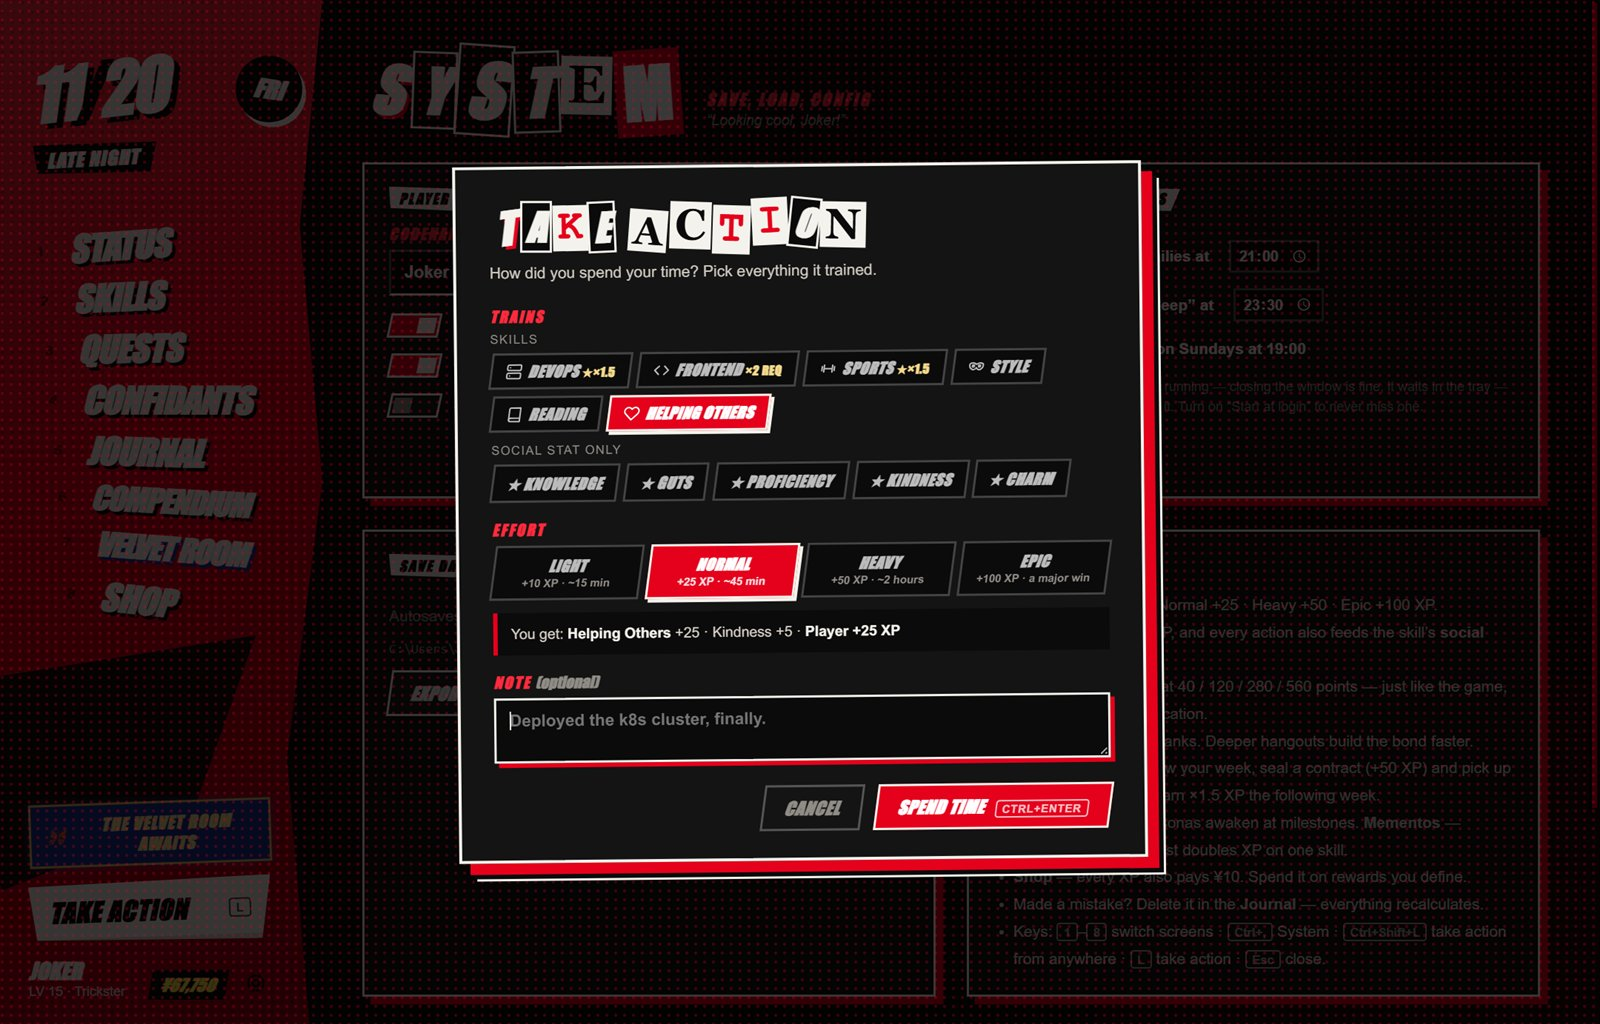
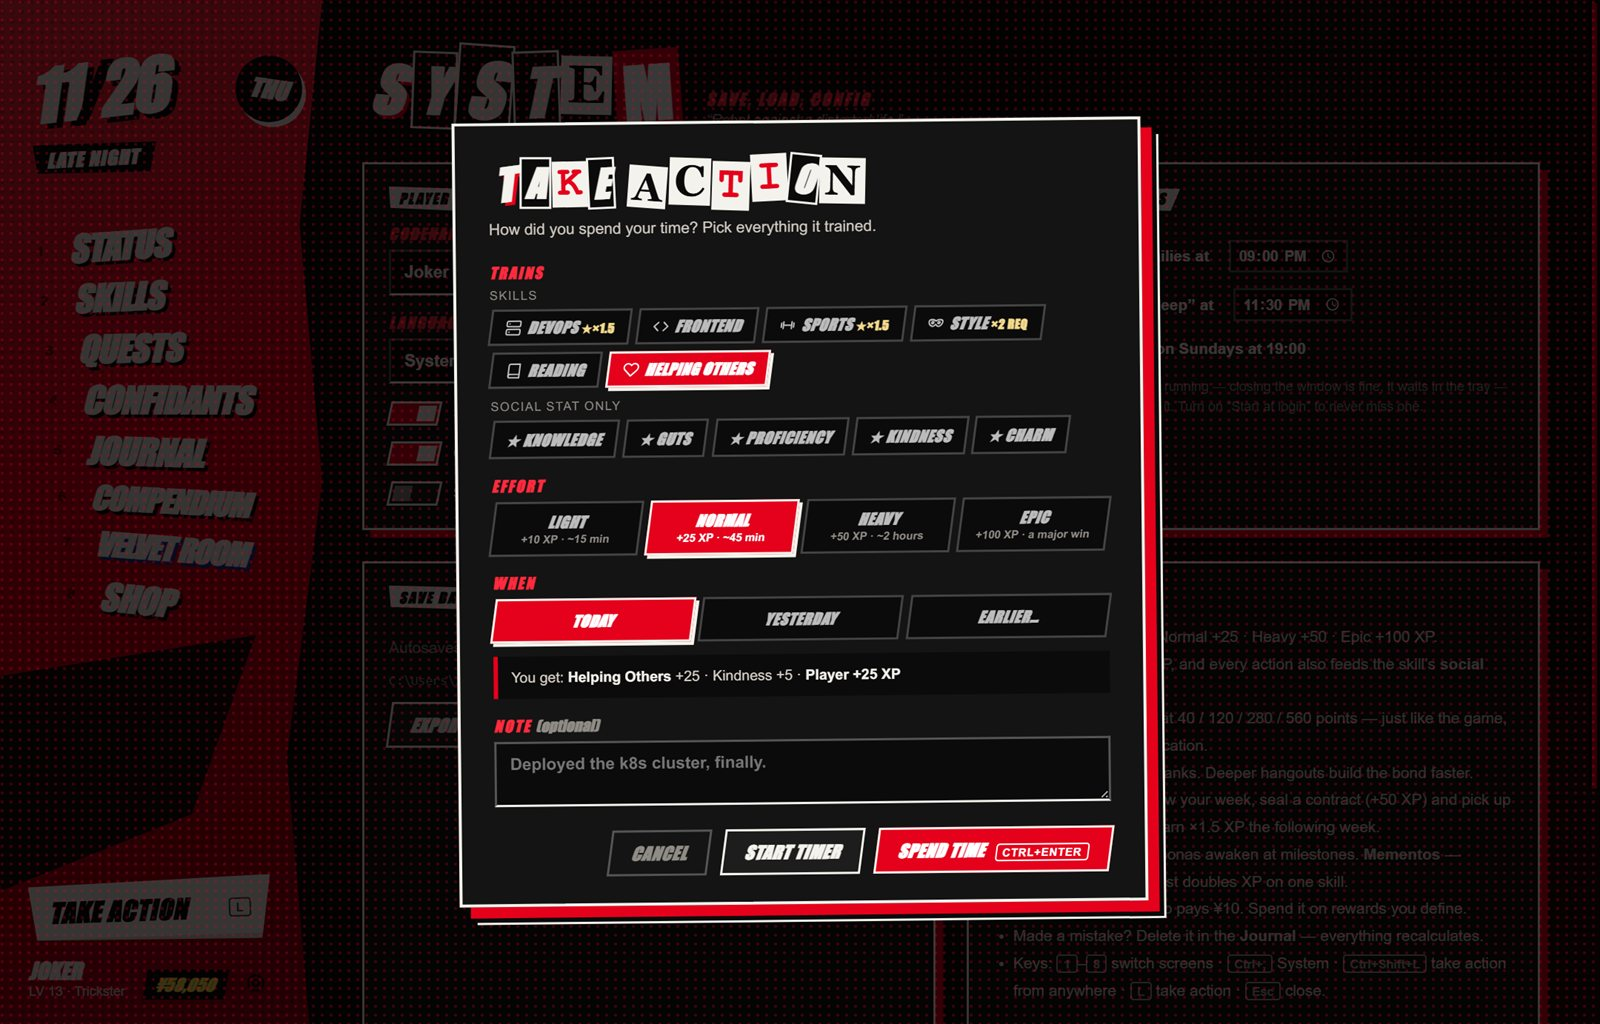
Refresh the README and screenshots

diff --git a/README.md b/README.md
@@ -4,63 +4,79 @@ A desktop life tracker styled after Persona 5. Your real life is the game: skill
 stats rank up, confidants deepen, missions have deadlines — and once a week you sit down in the
 Velvet Room to look back on it.
 
-Runs on **macOS** and **Windows**. Everything stays on your computer: no account, no server.
+macOS and Windows · English and Russian · everything stays on your computer: no account, no server.
 
 ![Status screen](docs/screenshots/status.jpg)
 
-## What's inside
+## Features
+
+**Log what you do**
+- **Take action** (`L`, or `⌘⇧L` / `Ctrl+Shift+L` from any app): pick every skill or social stat the
+  activity trained and how hard it was — Light +10 · Normal +25 · Heavy +50 · Epic +100 XP.
+- **Focus timer**: ▶ on a skill starts it; it sits in the sidebar and the tray, survives closing the app,
+  and asks whether to drop the time if you stepped away from the computer.
+- Log an earlier day, undo from the toast, or edit any journal entry later — every level and rank is
+  recalculated from the history.
+
+**Grow**
+- **Skills** level up from XP; each feeds one of five **social stats** — Knowledge, Guts, Proficiency,
+  Kindness, Charm — with five ranks each.
+- **Confidants**: the people you want to grow closer to, 10 ranks each, one arcana each. A meeting can
+  include several of them.
+- **Compendium**: 29 personas that awaken at milestones — streaks, ranks, missions, contracts.
+
+**Plan**
+- **Quests**: dailies with streaks (optionally on chosen weekdays), weeklies, and one-off **missions**
+  with deadlines that show up as a calling card on the Status screen.
+- **Mission stages**: split a mission into steps with their own deadlines; a pace marker says whether
+  you're on track.
+- **Mementos requests**: each day a neglected skill earns ×2 XP on its first action.
+
+**Look back**
+- **Velvet Room**: every week Igor reviews your XP pace, stat growth, neglected skills, distant
+  confidants and upcoming deadlines. Grade the week, reflect, and seal a contract choosing up to three
+  focus skills that earn ×1.5 XP the next week.
+- **Share week**: any week as a 1080×1080 card, copied to the clipboard or saved as a PNG. Numbers only;
+  your notes stay private.
+- **Journal**: the full history, a month calendar, weekly charts, and how your daily condition affects
+  your output.
+
+**Reward yourself**
+- **Shop**: every XP also pays ¥10. Define your own rewards and buy them with what you earned.
+- **Morgana** reminds you about unfinished dailies, bedtime and the Sunday Velvet Room, with the window
+  closed too.
 
 | | |
 |---|---|
 | ![Take action](docs/screenshots/quicklog.jpg) | ![Skills](docs/screenshots/skills.jpg) |
-| **Take action** — log what you did, pick every skill it trained and how hard it was. | **Skills** level up from XP; each one feeds a social stat. |
-| ![Calendar](docs/screenshots/journal-calendar.jpg) | ![Velvet Room](docs/screenshots/velvet-contract.jpg) |
-| **Journal** — full history, a month calendar, weekly charts. | **Velvet Room** — a weekly review with a contract for the week ahead. |
+| ![Journal calendar](docs/screenshots/journal-calendar.jpg) | ![Velvet Room](docs/screenshots/velvet-contract.jpg) |
+| ![Week card](docs/screenshots/week-card.jpg) | ![Status in Russian](docs/screenshots/status-ru.jpg) |
 
 ![Compendium](docs/screenshots/compendium.jpg)
 
-- **New game**: the first launch walks you through creating your character — a codename, the parts
-  of your life you want to grow (each becomes a skill), and a few starter quests. Nothing is saved
-  until you press Start; System → New game runs it again, and you can still go back.
-- **Take action** (`L`): pick every skill (or social stat) the activity trained, plus an effort level —
-  Light +10 · Normal +25 · Heavy +50 · Epic +100 XP. Each chosen skill gets the full XP; each social
-  stat is credited once even if several chosen skills feed it; player XP counts once.
-- **Focus timer**: press ▶ on a skill (or Start timer in Take action) and get to work. The clock sits
-  in the sidebar and on the tray icon, survives closing the app, and can be paused. Stop logs it with
-  the minutes and a matching effort. Step away from the computer for 10+ minutes and it asks whether
-  to drop that time.
-- Forgot to log something? Pick **Yesterday** or an earlier date under *When*. Logged the wrong thing?
-  Hit **Undo** on the toast right after.
-- **Skills** level up from XP. Each skill feeds one **social stat** (XP ÷ 5 points).
-- **Social stats** — Knowledge, Guts, Proficiency, Kindness, Charm — have 5 ranks, at
-  40 / 120 / 280 / 560 points.
-- **Quests**: daily (with streaks, optionally on chosen weekdays only), weekly (reset Monday), and
-  one-off **missions** with deadlines that show up as a calling card on the Status screen.
-- **Mission stages**: break a mission into steps, each with an optional deadline. Every step pays XP,
-  the last one clears the mission, and a pace marker says whether you're on track for the deadline.
-- **Confidants**: people you want to grow closer to. 10 ranks each, pick their arcana. Time together
-  grows their stat and can also train skills. One meeting can include several confidants.
-- **Velvet Room**: Igor reviews your week (XP pace, stat growth, neglected skills, distant confidants,
-  upcoming deadlines). Grade the week, reflect, and seal a contract (+50 XP) choosing up to 3
-  **focus skills** that earn ×1.5 XP the following week. **Share week** turns any week into a
-  1080×1080 card — copy it to the clipboard or save a PNG. It shows numbers only; your notes stay private.
-- **Shop**: every XP also pays ¥10. Define your own rewards and buy them with what you earned.
-- **Morgana**: notifications for unfinished dailies, bedtime and the Sunday Velvet Room. They keep
-  working with the window closed.
-- **Compendium**: 29 personas that awaken at milestones (streaks, ranks, missions, contracts…).
-- **Mementos requests**: each day a neglected skill is picked — the first action on it earns ×2 XP.
-- **Condition**: log how you feel each day and see how it affects your output.
-- **Journal**: edit an entry (✎) to fix what it trained, the effort, the day or the note, or delete it to undo
-  it — every level and rank is recalculated from the history.
-- **English and Russian**: follows the system language; switch on the title screen or in System. Tray menu and
-  reminders follow too.
+## How it's built
 
-**Keys:** `1`–`8` switch screens · `L` take action · `⌘⇧L` / `Ctrl+Shift+L` take action from any app ·
-`⌘,` / `Ctrl+,` settings · `⌘↵` / `Ctrl+Enter` submit · `Esc` close.
+Electron with plain HTML, CSS and JavaScript — no framework, no bundler, no runtime dependencies.
+
+- **Progress is event-sourced.** The journal is the only source of truth: XP, levels, ranks and ¥ are
+  recalculated from it on every render. Deleting or editing an entry undoes it exactly, and saves from
+  older versions keep loading through readers that understand every entry format.
+- **Locked-down renderer.** Context isolation, a sandbox and a strict Content Security Policy; the page
+  reaches the system only through a small `window.api` bridge, and navigation, new windows and web
+  permissions are blocked.
+- **Two languages without a library.** English text is the key, Russian plurals come from
+  `Intl.PluralRules`, and names the game wrote into your save switch language with the interface.
+- **Images from HTML.** The week card is rendered in a hidden window and captured to the clipboard; the
+  Windows installer's animated splash and the macOS installer's background are drawn in HTML too.
+- **Installers.** Windows: Squirrel — one double-click, no wizard, updates in place. macOS: a disk image.
+- **Tests drive the real app.** 71 Playwright tests launch Electron with a throwaway save: behaviour,
+  axe-core accessibility on every screen, window security, and a check that no English is left in the
+  Russian interface.
 
 ## Install
 
-The app lives in [`gamified-life-tracker/`](gamified-life-tracker). You need [Node.js](https://nodejs.org) 20+.
+There are no prebuilt downloads yet: build the installer from source. The app lives in
+[`gamified-life-tracker/`](gamified-life-tracker); you need [Node.js](https://nodejs.org) 20+.
 
 ```bash
 cd gamified-life-tracker
@@ -73,15 +89,10 @@ npm install
 npm run install_app:win
 ```
 
-Builds `dist/squirrel/Phantom Life Setup.exe` and runs it. No wizard: double-click, an animated splash
-plays for a few seconds while it installs (just for you, no admin rights), and the app opens. It adds
-Phantom Life to the Start menu, the desktop, and Settings → Apps for uninstalling. Running a newer
-installer updates in place; your progress survives updates and uninstalling. The installer is a single
-file you can pass to someone else. Closing the app's window keeps it in the system tray; quit from the
-tray icon.
-
-The splash is drawn in `build/installer/splash.html`; after changing it, run `npm run splash` to
-regenerate `build/installer/loading.gif`.
+Builds `dist/squirrel/Phantom Life Setup.exe` and runs it: an animated splash plays for a few seconds
+while it installs (just for you, no admin rights), and the app opens. It adds Phantom Life to the Start
+menu, the desktop, and Settings → Apps. A newer installer updates in place; your progress survives
+updates and uninstalling. Closing the window keeps the app in the tray; quit from the tray icon.
 
 **macOS** (Apple Silicon)
 
@@ -90,15 +101,9 @@ npm run package:mac
 open "dist/Phantom Life 1.0.0 arm64.dmg"
 ```
 
-Builds a disk image: drag Phantom Life onto Applications. The image is a single file you can pass to
-someone else. It is ad-hoc signed, not notarized: on another Mac, the first launch is blocked until you
-allow it in System Settings → Privacy & Security → Open Anyway. Replacing the app keeps your progress
-(it lives in `~/Library/Application Support/Phantom Life`).
-
-The window's background is drawn in `build/installer/dmg.html`; after changing it, run
-`npm run dmg-background` (on any system) to regenerate the PNGs.
-
-`npm run install_app` still builds the app and copies it straight into `/Applications`, without an image.
+Drag Phantom Life onto Applications. The image is ad-hoc signed, not notarized: on another Mac, allow
+the first launch in System Settings → Privacy & Security → Open Anyway. `npm run install_app` builds the
+app and copies it straight into `/Applications` instead.
 
 Reminders, the global shortcut and the tray run only in the installed app.
 
@@ -107,21 +112,18 @@ Reminders, the global shortcut and the tray run only in the installed app.
 ```bash
 cd gamified-life-tracker
 npm start    # run from source
-npm test     # end-to-end tests: launches the real app with a throwaway save
+npm test     # end-to-end tests
 ```
-
-Plain HTML, CSS and JavaScript on Electron — no framework, no build step.
 
 | File | What's in it |
 |---|---|
-| `main.js` | Main process: window, saving, backups, tray, global shortcut, notifications |
+| `main.js` | Main process: window, saving, backups, tray, global shortcut, reminders, week card rendering |
 | `preload.js` | The `window.api` bridge between the page and the main process |
 | `src/app.js` | Game rules, state and every screen |
+| `src/i18n.js` | Translation helpers and the Russian text |
 | `src/styles.css` | The look |
-| `tests/` | Playwright tests: behaviour, accessibility on every screen, window security |
-
-Progress is never stored directly: XP, levels and ranks are recalculated from the journal on every
-render, which is why deleting an entry cleanly undoes it.
+| `tests/` | Playwright tests |
+| `build/installer/` | Installer artwork: `splash.html` → `npm run splash`, `dmg.html` → `npm run dmg-background` |
 
 ## Your data
 
@@ -130,3 +132,10 @@ Export and import from the System screen (gear icon).
 
 - macOS: `~/Library/Application Support/Phantom Life/save.json`
 - Windows: `%APPDATA%\Phantom Life\save.json`
+
+## Authors
+
+[@aayafrontenda](https://github.com/aayafrontenda) · [@jumazes](https://github.com/jumazes)
+
+Phantom Life is an unofficial fan project, not affiliated with or endorsed by ATLUS or SEGA. Persona
+and related names belong to their owners.
